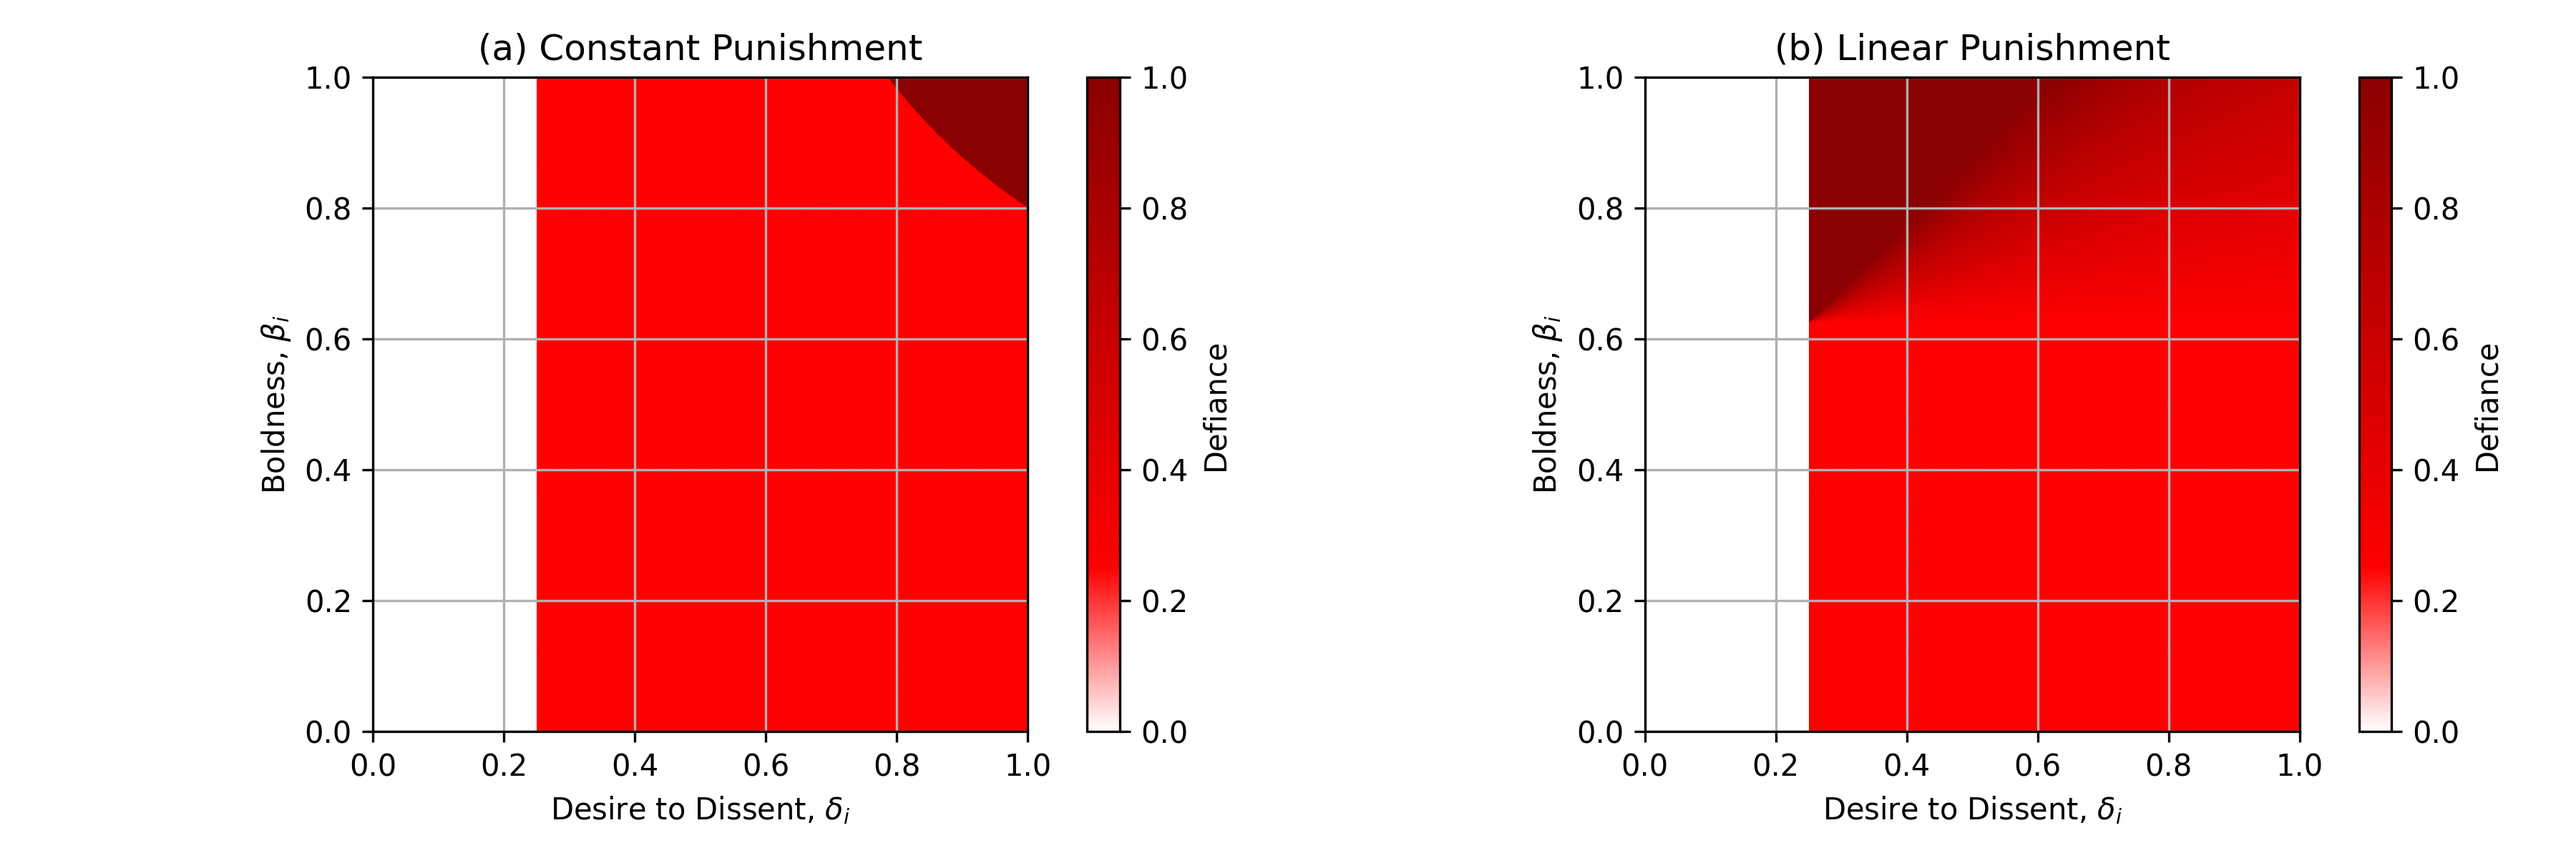
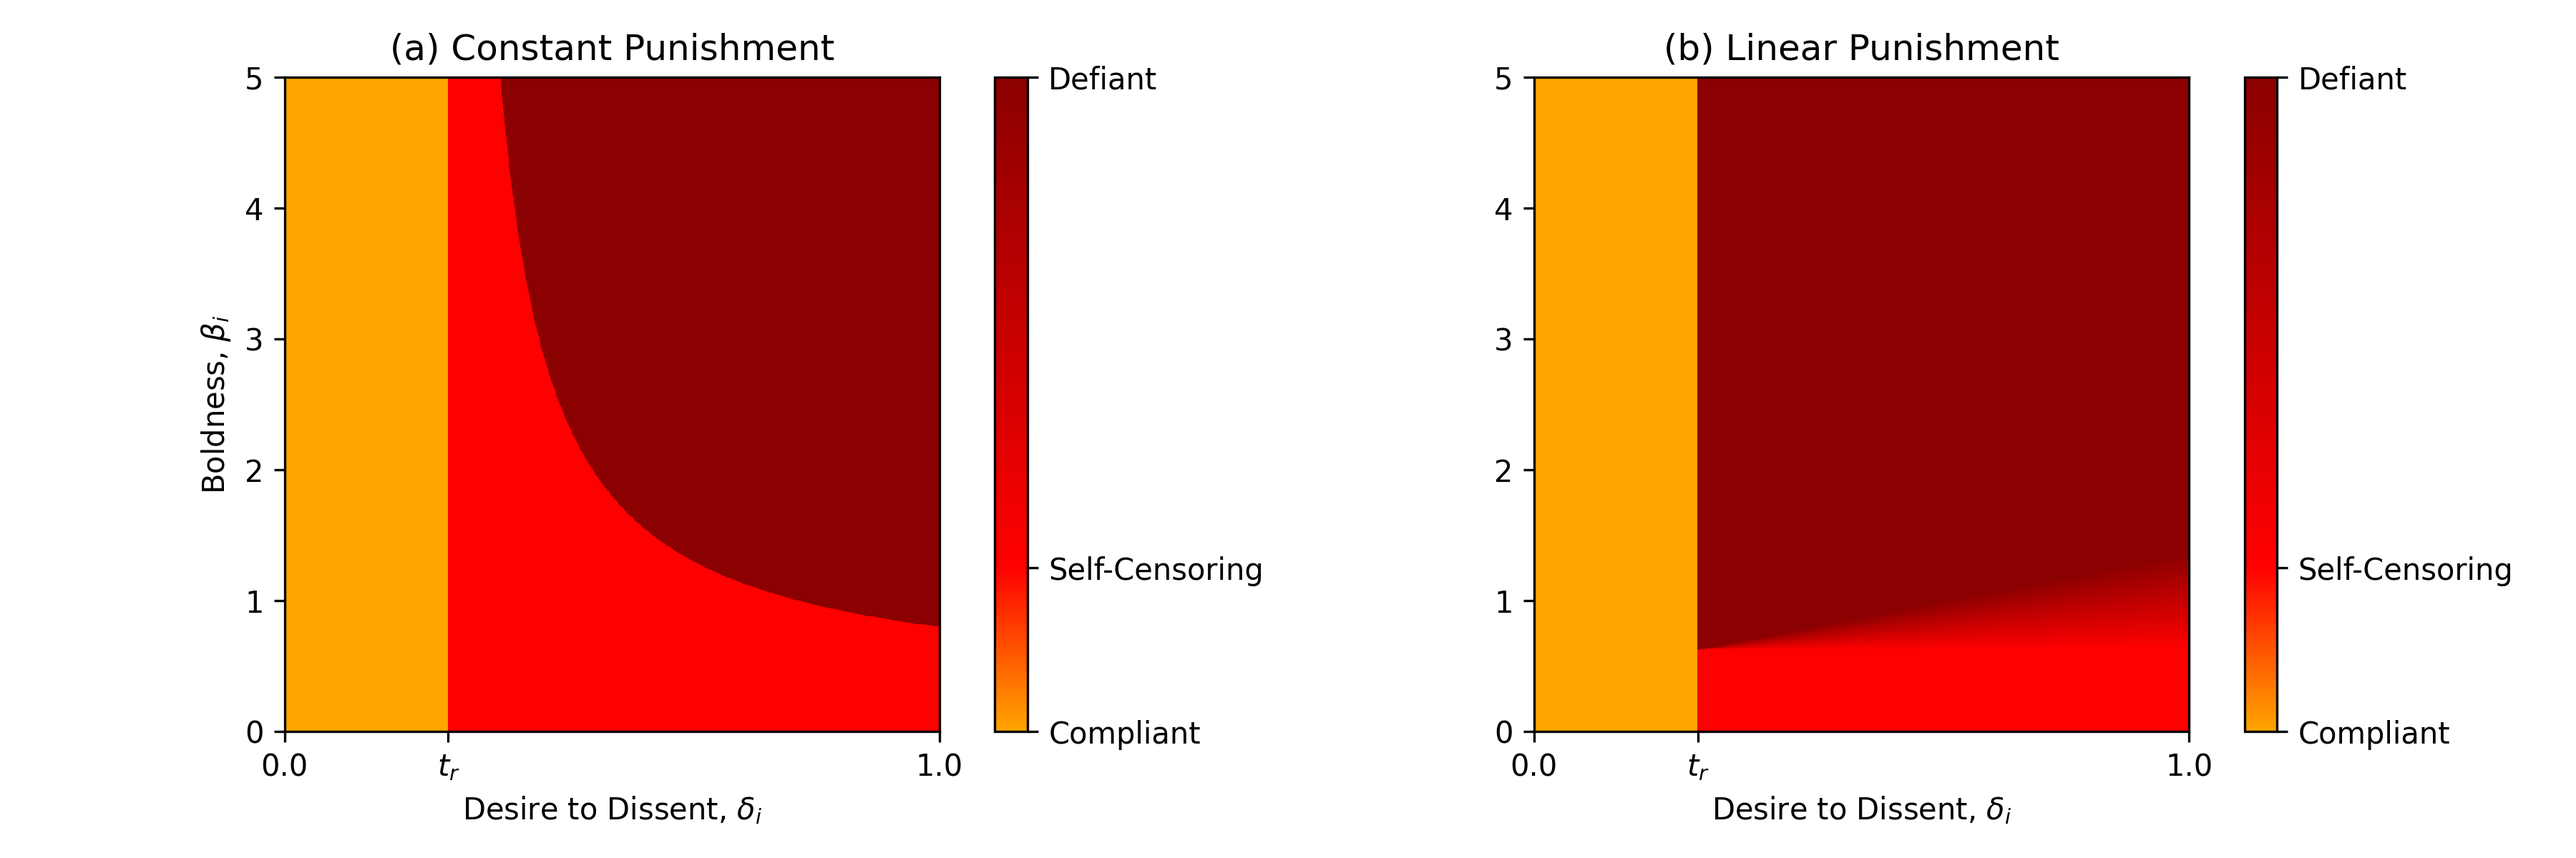
10-11-2023 changes

diff --git a/derivations/desire_utility_map.py b/derivations/desire_utility_map.py
@@ -72,6 +72,30 @@ def heat_map_value(delta, t, opt_a):
     elif opt_a == delta and opt_a > t:
         return 1
 
+def heat_map_value_for_t(delta, t, opt_a):
+    """
+    Get the color of heat map based on the optimal action of the individual, relative to their desire to dissent and the authority's tolerance.
+
+    :param delta: the individual's float desire to dissent (in [0,1])
+    :param t: the authority's float tolerance (in [0,1])
+    :param opt_a: the individual's float optimal action dissent (in [0,delta])
+    """
+
+    # Compliant Individuals
+    if delta <= t:
+        return 0
+    # Self-Censoring Individuals
+    elif opt_a == t and delta > t:
+        return 0.25
+    # Partial Self-Censoring Individuals
+    elif opt_a > t and opt_a < delta:
+        position_percentage = ((opt_a - t) / (delta - t)) * 100
+
+        # Interpolate between t and 1 based on position_percentage
+        return 0.25 + (position_percentage / 100) * (1 - 0.25)
+    # Defiant Individuals
+    elif opt_a == delta and opt_a > t:
+        return 1
 
 def plot_opt_dissent_vs_utility(ax, beta, nu, pi, t, s, utility_str):
     """
@@ -85,17 +109,20 @@ def plot_opt_dissent_vs_utility(ax, beta, nu, pi, t, s, utility_str):
     :param s: the authority's float punishment severity (> 0)
     :param utility_str: the string to use for the utility axis (["nu", "t", "s", "beta"])
     """
+
+    y_limit = 1
+    if utility_str == "beta" or utility_str == "s":
+        y_limit = 5
+
     # Evaluate the individual's optimal action dissent over a range of nu and delta.
     desires = np.linspace(0, 1, 1000)
 
     acts = np.empty((1000, 1000))
 
 
-    utility = np.linspace(0, 1, 1000)
+    utility = np.linspace(0, y_limit, 1000)
 
-    utility_map = {"nu": nu, "t": t, "s": s, "beta": beta}
-    selected_utility = utility_map.get(utility_str, None)
-
+    
     # Get the heat map values for the given utility
     if utility_str == "nu":
         for i, nu in enumerate(utility):
@@ -104,7 +131,7 @@ def plot_opt_dissent_vs_utility(ax, beta, nu, pi, t, s, utility_str):
     elif utility_str == "t":
         for i, t in enumerate(utility):
             for j, delta in enumerate(desires):
-                acts[i, j] = heat_map_value(delta, t, opt_dissent(delta, beta, nu, pi, t, s))
+                acts[i, j] = heat_map_value_for_t(delta, t, opt_dissent(delta, beta, nu, pi, t, s))
     elif utility_str == "s":
         for i, s in enumerate(utility):
             for j, delta in enumerate(desires):
@@ -114,21 +141,43 @@ def plot_opt_dissent_vs_utility(ax, beta, nu, pi, t, s, utility_str):
             for j, delta in enumerate(desires):
                 acts[i, j] = heat_map_value(delta, t, opt_dissent(delta, beta, nu, pi, t, s))
 
-    # Define custom colors for the colormap
-    cmap_colors = [(0.0, 'white'), (t, 'red'), (1.0, 'darkred')]
 
-    # Create a custom colormap using LinearSegmentedColormap
-    cmap = mcolors.LinearSegmentedColormap.from_list('custom_heatmap', cmap_colors)
 
-    im = ax.imshow(acts, cmap=cmap, extent=[0, 1, 0, 1], origin='lower')
+    if utility_str != "t":
+        # Define custom colors for the colormap
+        cmap_colors = [(0.0, 'orange'), (t, 'red'), (1.0, 'darkred')]
 
-    cbar = ax.figure.colorbar(im, ax=ax)
-    cbar.set_label('Defiance')
+        # Create a custom colormap using LinearSegmentedColormap
+        cmap = plt.cm.colors.LinearSegmentedColormap.from_list('custom_heatmap', cmap_colors)
 
-    ax.grid()
+        im = ax.pcolormesh(desires, utility, acts, cmap=cmap, shading='auto')
+
+        # Dotted line for tolerance
+        #ax.axvline(t, color='white', linestyle='--')
+
+        # X-axis ticks
+        ax.set_xticks([0, t, 1])
+        ax.set_xticklabels(['0.0', r'$t_r$', '1.0'])
+        cbar = ax.figure.colorbar(im, ax=ax)
+        cbar.set_ticks([0, t, 1])
+    else:
+        # Define custom colors for the colormap
+        cmap_colors = [(0.0, 'orange'), (0.25, 'red'), (1.0, 'darkred')]
+
+        # Create a custom colormap using LinearSegmentedColormap
+        cmap = plt.cm.colors.LinearSegmentedColormap.from_list('custom_heatmap', cmap_colors)
+
+        im = ax.pcolormesh(desires, utility, acts, cmap=cmap, shading='auto')
+        cbar = ax.figure.colorbar(im, ax=ax)
+        cbar.set_ticks([0, 0.25, 1])
+
+    ax.set(xlim=[0, 1], ylim=[0, y_limit])
+
+    cbar.set_label('')
+    cbar.set_ticklabels(['Compliant', 'Self-Censoring', 'Defiant'])
 
 if __name__ == "__main__":
-    titles = [r'Surveillance, $nu$', r'Tolerance, $t_r$', r'Severity, $s_r$', r'Boldness, $\beta_i$']
+    titles = [r'Surveillance, $\nu$', r'Tolerance, $t_r$', r'Severity, $s_r$', r'Boldness, $\beta_i$']
     utilities = ["nu", "t", "s", "beta"]
 
     for i, utility in enumerate(utilities):
@@ -141,11 +190,13 @@ if __name__ == "__main__":
         ax[0].set(title=r'(a) Constant Punishment',
             xlabel=r'Desire to Dissent, $\delta_i$',
             ylabel=titles[i])
-
+    
         # Plot desire to dissent and surveillance for linear punishment.
         plot_opt_dissent_vs_utility(ax[1], nu=0.5, beta=1, pi='linear', t=0.25, s=1, utility_str=utility)
         ax[1].set(title=r'(b) Linear Punishment',
-            xlabel=r'Desire to Dissent, $\delta_i$',
-            ylabel=titles[i])
-
+            xlabel=r'Desire to Dissent, $\delta_i$')
+        
+        ax[0].set_box_aspect(1)
+        ax[1].set_box_aspect(1)
+        
         fig.savefig(osp.join('.', 'figs', f'desire_{utility}_heat_map.png'))
